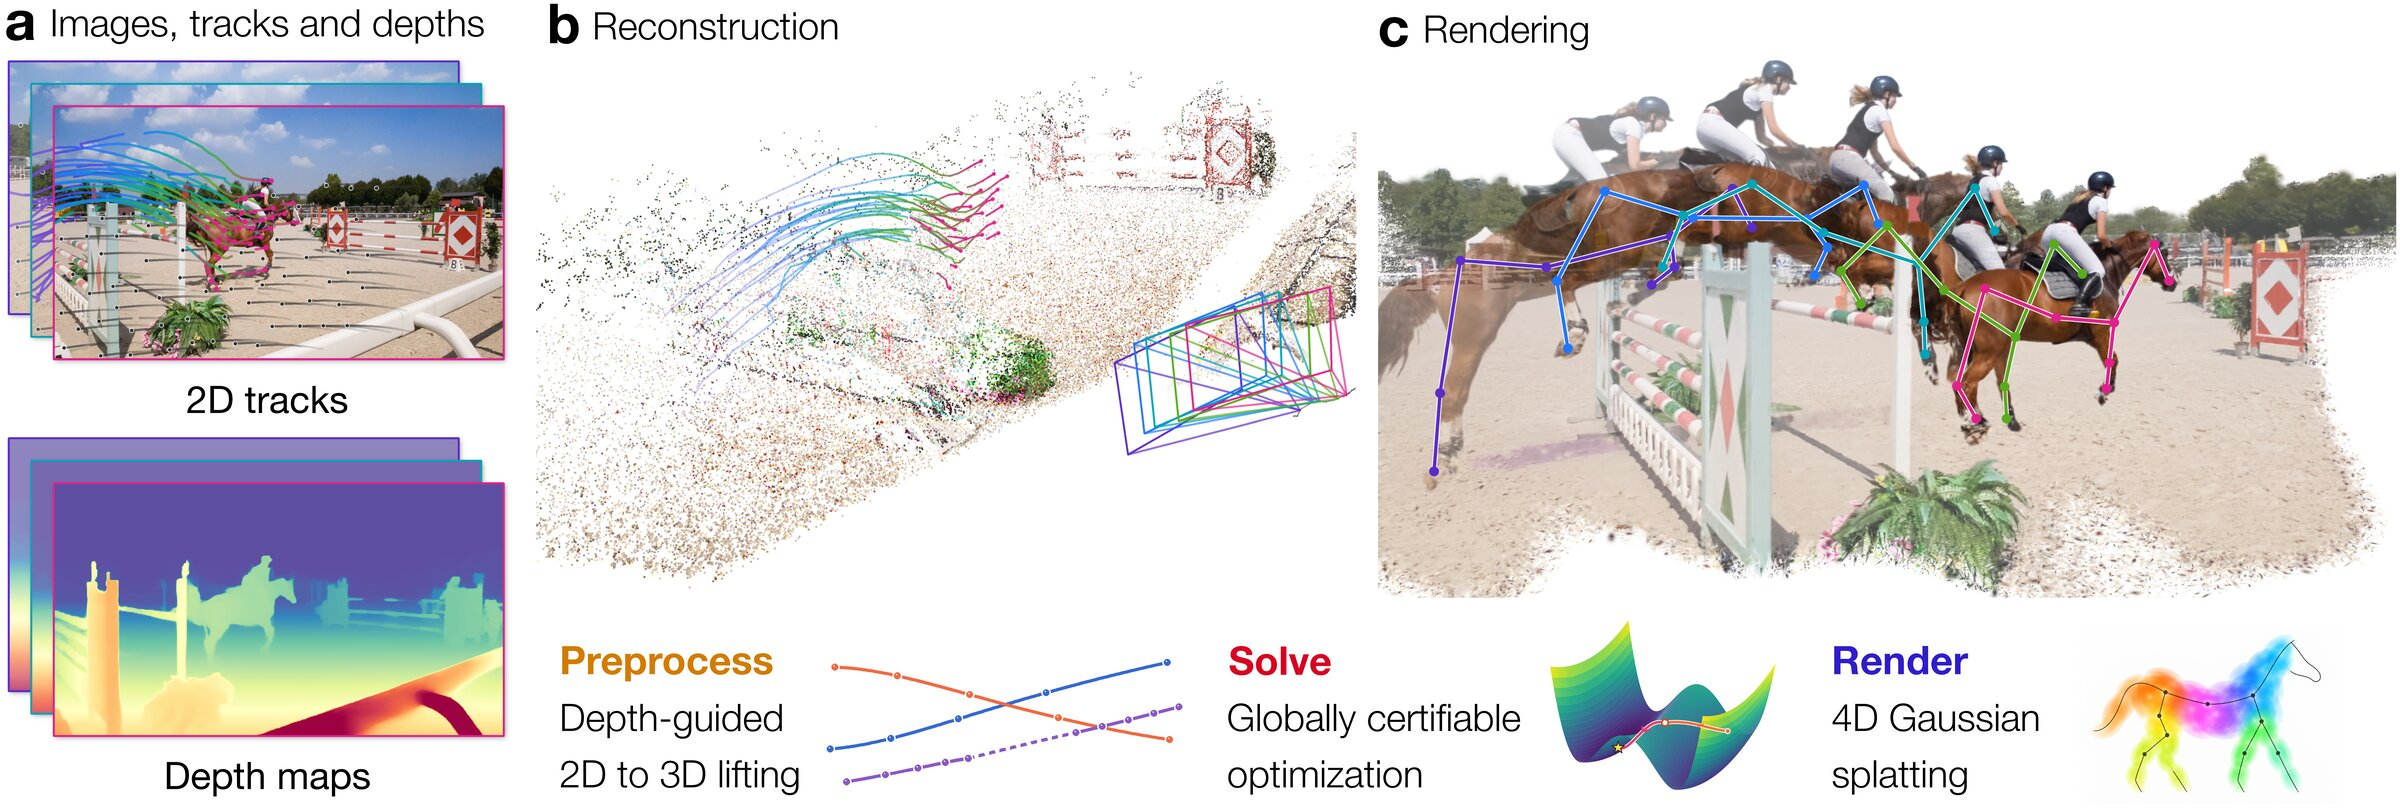
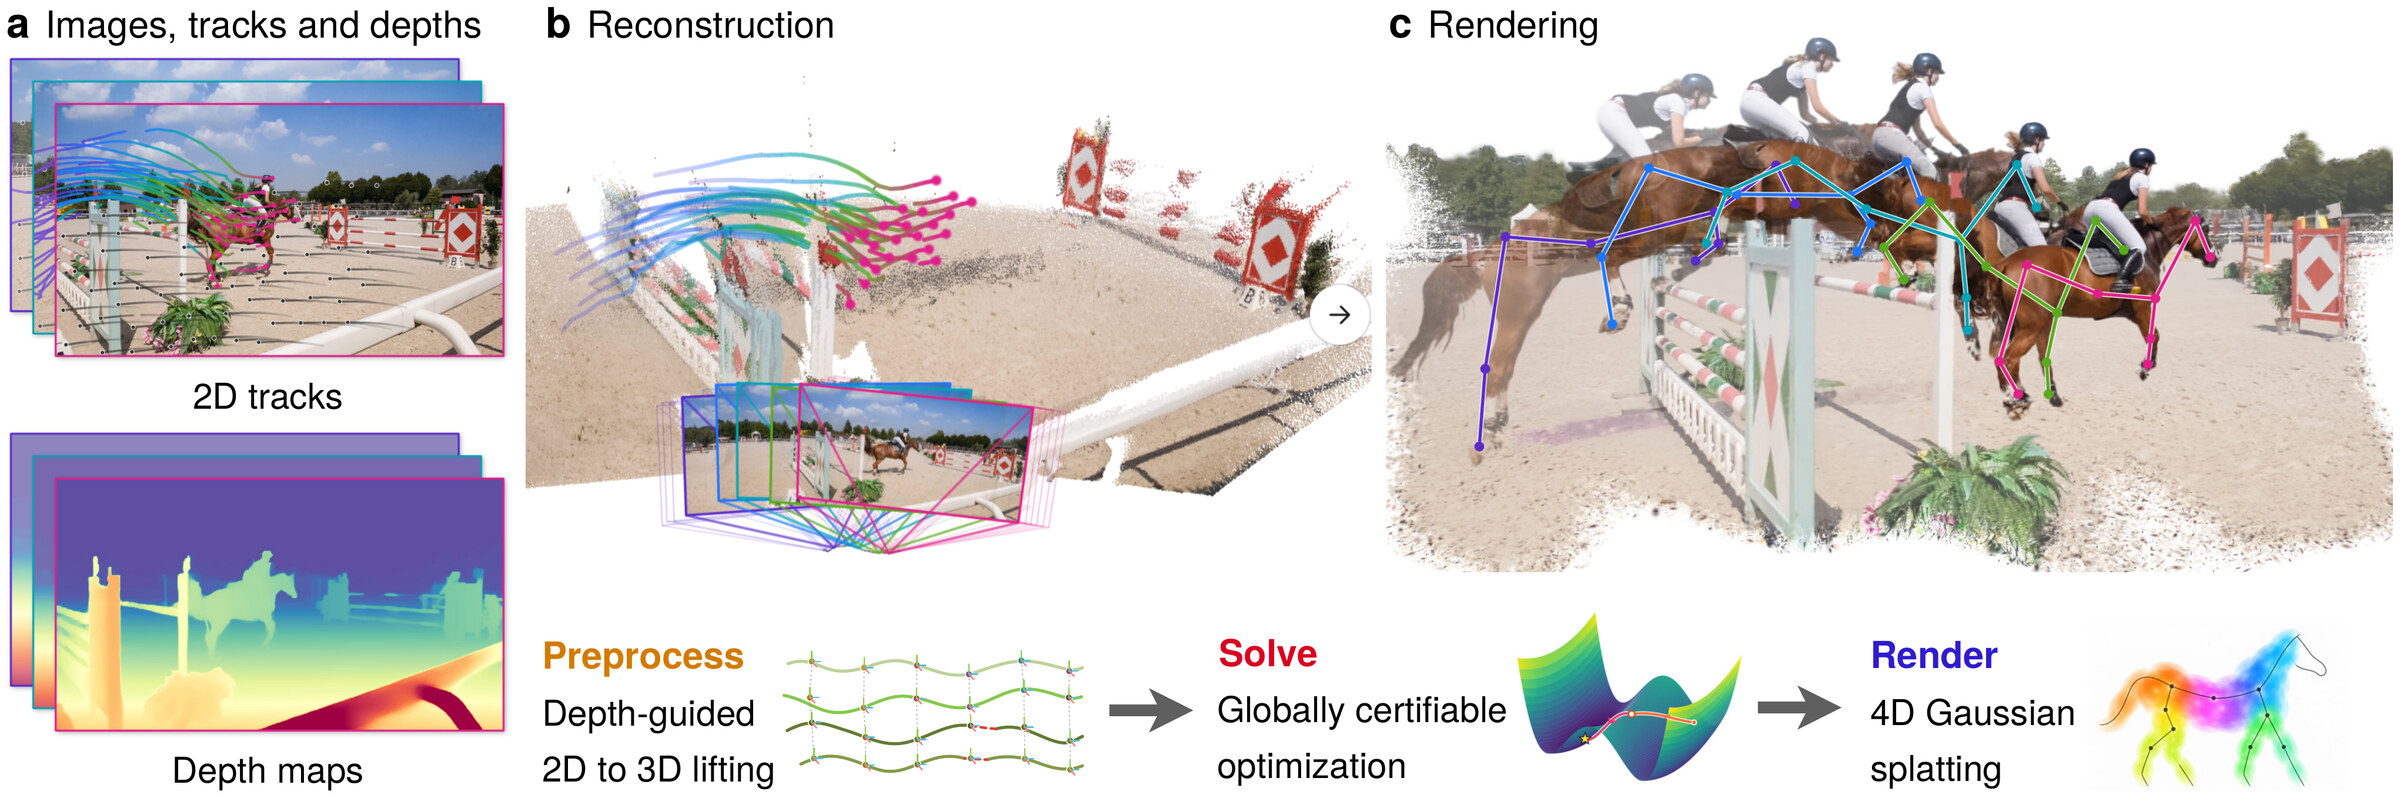
The arXiv paper's new overview and view-graph figures in How it works; 6D pose estimation; the lede at full width

diff --git a/index.html b/index.html
@@ -8,7 +8,7 @@
 
   <meta property="og:title" content="XM4D: 4D Reconstruction through Certifiable Geometric Optimization">
   <meta property="og:description" content="Certifiably optimal cameras and non-rigid motion from casual videos, solved on the GPU and scaling to thousands of frames.">
-  <meta property="og:image" content="assets/img/teaser.jpg">
+  <meta property="og:image" content="assets/img/teaser.jpg?v=2">
   <meta property="og:type" content="website">
 
   <link rel="preconnect" href="https://fonts.googleapis.com">
@@ -16,7 +16,7 @@
   <link href="https://fonts.googleapis.com/css2?family=Instrument+Sans:ital,wght@0,400;0,500;0,600;0,700;1,400&display=swap" rel="stylesheet">
 
   <link rel="icon" href="assets/favicon.svg" type="image/svg+xml">
-  <link rel="stylesheet" href="style.css?v=20261109b">
+  <link rel="stylesheet" href="style.css?v=20261109c">
 </head>
 <body>
 
@@ -553,7 +553,7 @@
 
     <div class="app" id="app-pose">
       <div class="app-text">
-        <h3>Follow a known object in 6D</h3>
+        <h3>6D pose estimation</h3>
         <p>A robot carries a cereal box 1.8&nbsp;m along a kitchen counter and turns it a quarter turn, while the camera
           moves 2.2&nbsp;m. From the RGB video and the camera&rsquo;s focal length, XM4D solves the camera&rsquo;s path
           and the box as one rigid node, in the same world frame. The box&rsquo;s mesh is registered to the reconstructed
@@ -684,7 +684,7 @@
       <div class="method-steps">
 
         <!-- data-img: figure shown in the sticky stage while this step is active -->
-        <article class="step" data-img="assets/img/teaser.jpg" data-title="Inputs">
+        <article class="step" data-img="assets/img/teaser.jpg?v=2" data-title="Inputs">
           <h3>Lift tracks with predicted depth</h3>
           <p>
             Point trackers and a monocular depth model give 2D tracks and per-frame depth. Every
@@ -692,7 +692,7 @@
           </p>
         </article>
 
-        <article class="step" data-img="assets/img/view-graph.jpg" data-title="Static stage">
+        <article class="step" data-img="assets/img/view-graph.jpg?v=2" data-title="Static stage">
           <h3>Certified cameras</h3>
           <p>
             A scaled bundle adjustment over camera poses, per-frame depth scales, and static
@@ -701,7 +701,7 @@
           </p>
         </article>
 
-        <article class="step" data-img="assets/img/view-graph.jpg" data-title="Dynamic stage">
+        <article class="step" data-img="assets/img/view-graph.jpg?v=2" data-title="Dynamic stage">
           <h3>Certified non-rigid motion</h3>
           <p>
             Dynamic motion is an embedded deformation graph whose node transformations are
@@ -710,7 +710,7 @@
           </p>
         </article>
 
-        <article class="step step-last" data-img="assets/img/teaser.jpg" data-title="Rendering">
+        <article class="step step-last" data-img="assets/img/teaser.jpg?v=2" data-title="Rendering">
           <h3>4D Gaussian splatting</h3>
           <p>
             The certified cameras and graph motion initialize dynamic Gaussian splatting, which
@@ -722,7 +722,7 @@
 
       <div class="method-stage">
         <div class="stage-sticky">
-          <img id="stage-img" src="assets/img/teaser.jpg" alt="">
+          <img id="stage-img" src="assets/img/teaser.jpg?v=2" alt="">
           <div class="stage-hud" aria-hidden="true">
             <span class="hud-task" id="hud-task">Inputs</span>
           </div>

diff --git a/style.css b/style.css
@@ -292,7 +292,7 @@ section h3 { font-size: 19px; font-weight: 600; letter-spacing: -.012em; line-he
 .hero-actions { display: flex; flex-wrap: wrap; gap: 8px; margin-top: 20px; }
 
 .hero-lede {
-  max-width: 600px;
+  max-width: none;                     /* the full content width, like the title */
   margin-top: 36px;
   font-size: clamp(17px, 1.6vw, 20px);
   line-height: 1.45;

diff --git a/README.md b/README.md
@@ -31,7 +31,7 @@ assets/
   favicon.svg
   group-logo.png  Computational Robotics Group logo (group-logo-alpha.png: its white made transparent, for the teaser's overlay)
   harvard-shield.svg  Harvard shield (from the group's GRASP page), for the teaser's overlay
-  img/            teaser.jpg, view-graph.jpg (rendered from the paper figures)
+  img/            teaser.jpg, view-graph.jpg (the arXiv paper's overview and view-graph figures, from 2026-pami-xm4d/arxiv-crg/figures/)
     runs/         posters of the Example runs clips
     solver/       posters of the solver clips
     apps/         posters of the Applications clips
